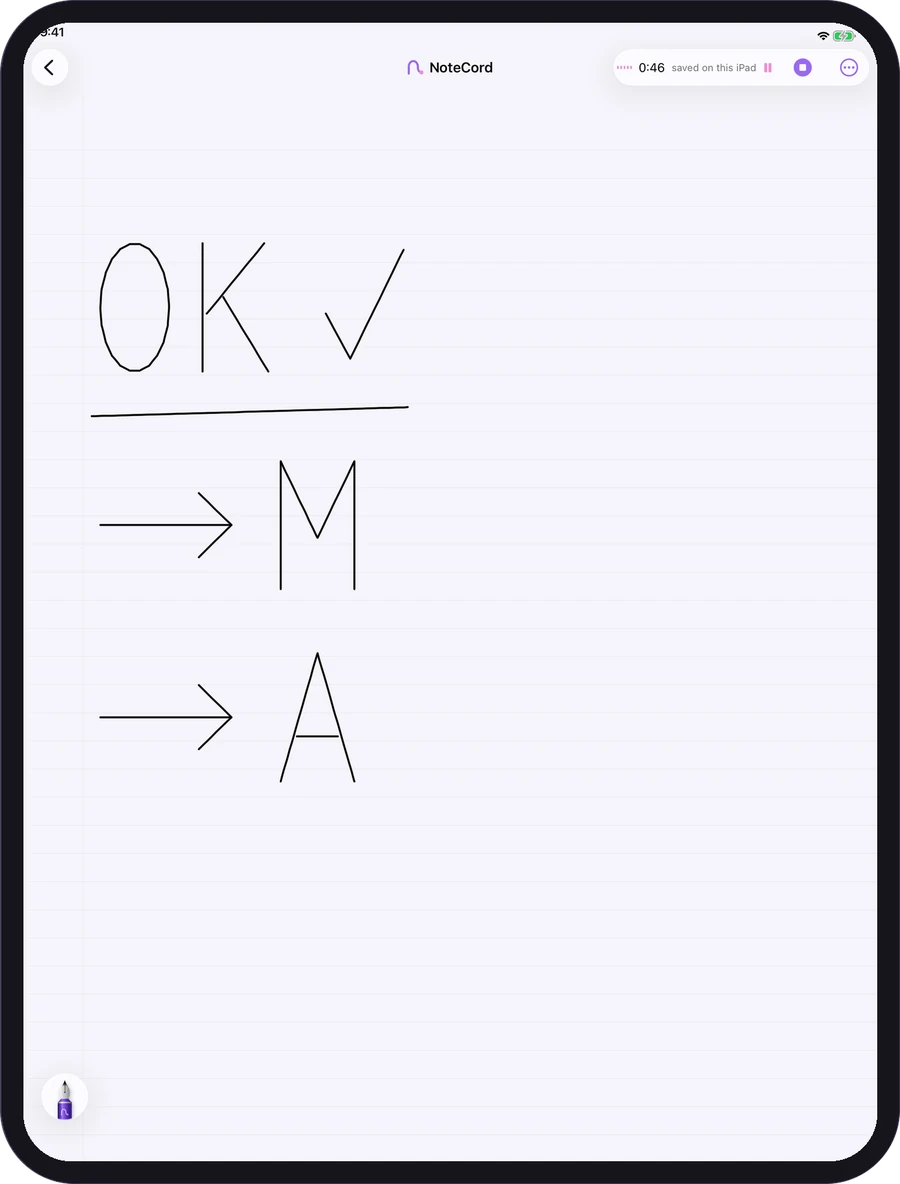
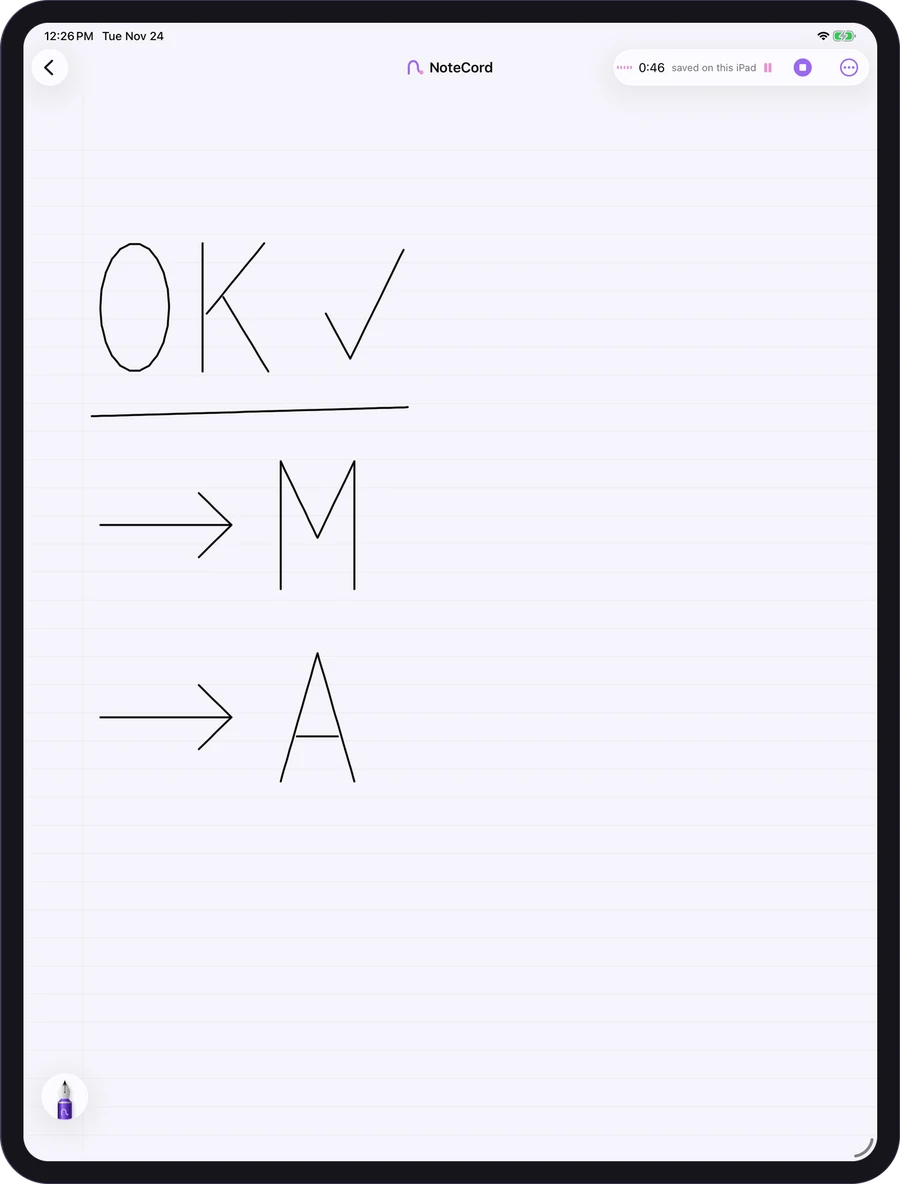
NoteCord site: iPad-beeld met hele statusbalk, Nederlandse opname op /nl/
Uit de onbewerkte simulatoropnamen van 24-11, schermhoek 30 pt zoals het echte
toestel. Er wordt geen klok meer over de statusbalk getekend.

diff --git a/nl/index.html b/nl/index.html
@@ -151,7 +151,7 @@
 <section class="schrijf" id="schrijf">
   <h2 data-t="bw3_t">Tik op je handschrift. <mark>Luister</mark>.</h2>
   <p class="lead" data-t="bw3_p">Tik op je iPad op je handgeschreven notitie. Je hoort wat er op dat moment werd gezegd.</p>
-  <div class="schrijf-beeld"><picture><source media="(max-width:820px)" srcset="../assets/ipad-app-m.webp"><img src="../assets/ipad-app.webp" alt="NoteCord op een iPad: handgeschreven notities terwijl de opname loopt, met de opnamebalk bovenin." data-alt="alt_ipad" width="1305" height="1717" loading="lazy"></picture></div>
+  <div class="schrijf-beeld"><picture><source media="(max-width:820px)" srcset="../assets/ipad-app-nl-m.webp"><img src="../assets/ipad-app-nl.webp" alt="NoteCord op een iPad: handgeschreven notities terwijl de opname loopt, met de opnamebalk bovenin." data-alt="alt_ipad" width="1305" height="1717" loading="lazy"></picture></div>
 </section>
 
 <section class="privacy" id="privacy">
